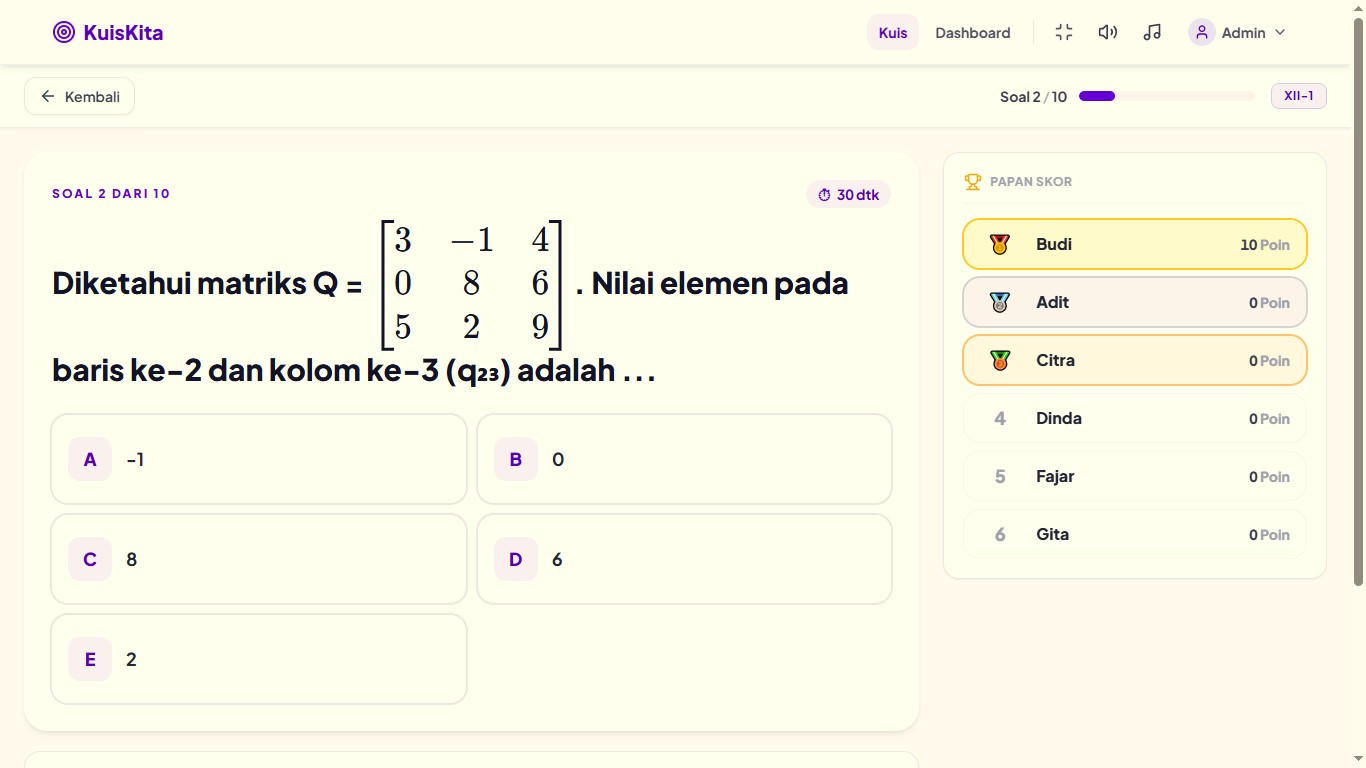
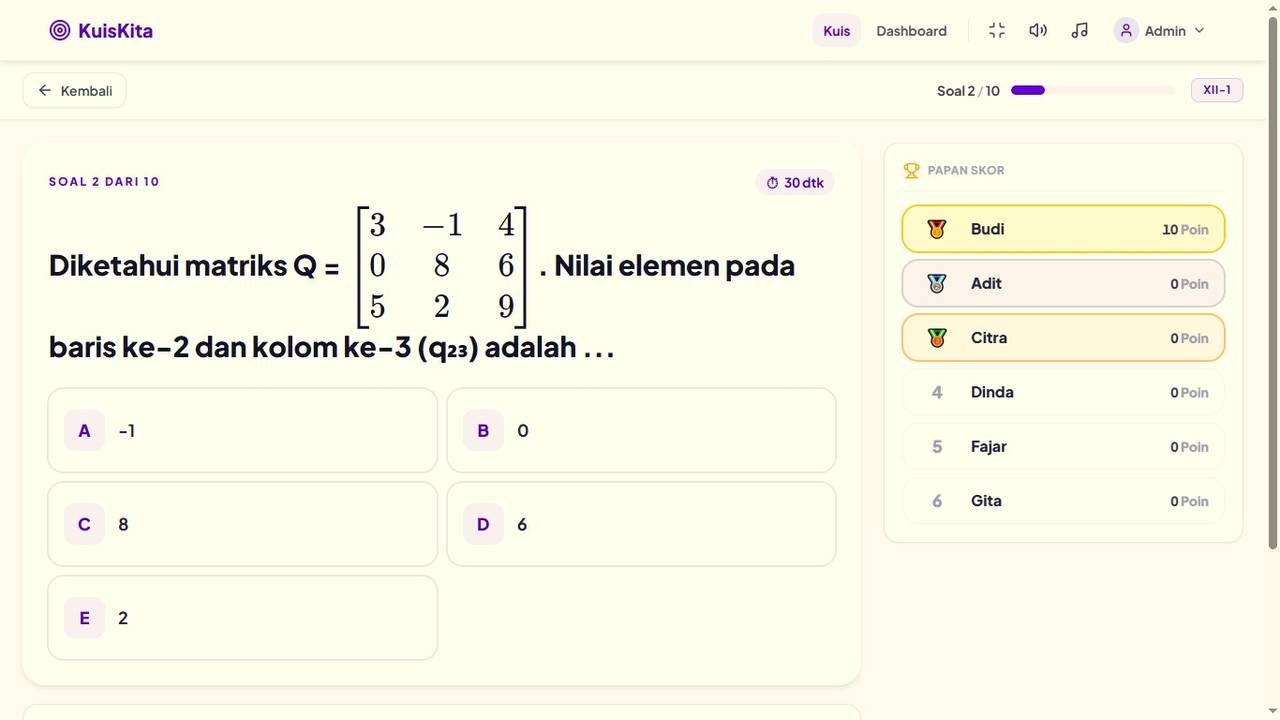
feat(works): replace SI-Catat with KuisKita classroom quiz
Interactive quiz app: teacher presents questions, students tap their name
to raise a hand and answer; class/student/question/history/settings
management with Word import, Excel import, and point-history Excel export.

diff --git a/app/components/SectionProjects.vue b/app/components/SectionProjects.vue
@@ -3,9 +3,9 @@ import type { ProjectDetail } from './ProjectModal.vue'
 
 const { t } = useI18n()
 
-// The projects pinned to the board. NihonAccess and Karoto carry screenshots;
-// STM-Smart and SI-Catat fall back to the built-in placeholder visual until
-// real shots are added (see the hidden preload block below the board).
+// The projects pinned to the board. NihonAccess, Karoto and KuisKita carry
+// screenshots; STM-Smart falls back to the built-in placeholder visual until
+// a real shot is added (see the hidden preload block below the board).
 const projects: ProjectDetail[] = [
   {
     key: 'nihon',
@@ -42,12 +42,12 @@ const projects: ProjectDetail[] = [
     codeUrl: '',
   },
   {
-    key: 'sicatat',
+    key: 'kuiskita',
     number: '04',
-    title: 'SI-Catat',
+    title: 'KuisKita',
     year: '2026',
     tags: ['Vue JS', 'TailwindCSS', 'Laravel', 'MySQL', 'REST API'],
-    images: [],
+    images: ['/images/kuiskita-1.jpg'],
     liveUrl: '',
     codeUrl: '',
   },
